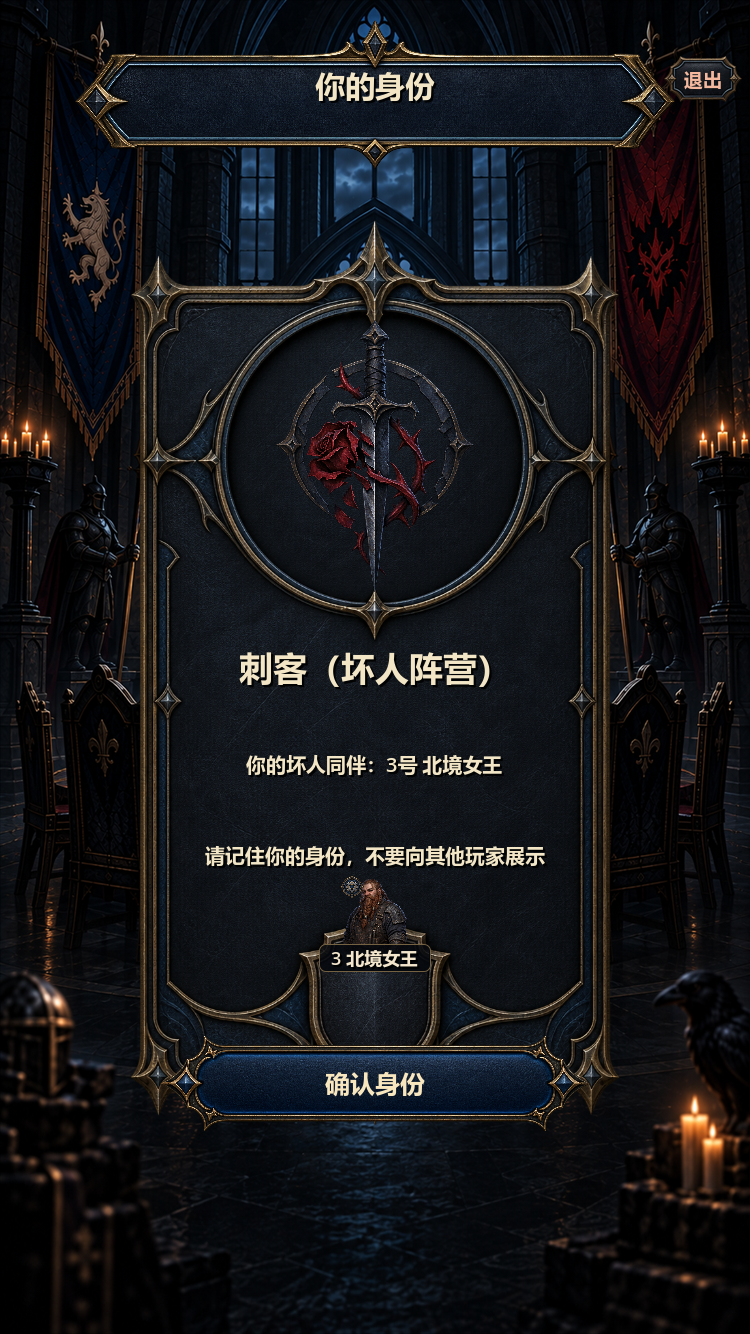
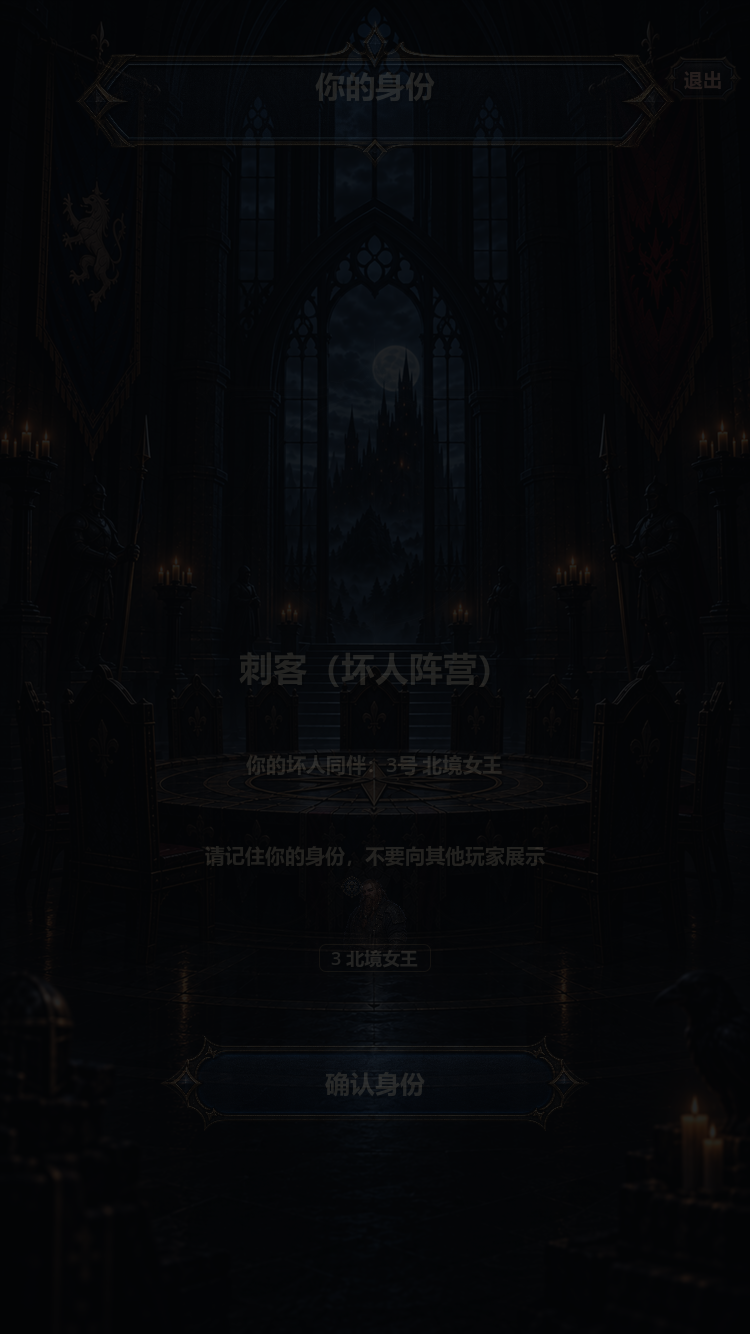
Feedback effects: page fade-in, press bounce, result pop and shake, identity card pop, countdown pulse, vibration switch, and a smoke test for them

diff --git a/文档/开发进度.md b/文档/开发进度.md
@@ -35,9 +35,10 @@
    - 第一轮（4423c34）：顶部返回 / 退出、底部导航底板、提示底条、标签素材、联机大厅分组、投票大点击区、组队主次按钮、任务页徽章变淡、结算身份徽记、去掉 AI_ 前缀、好友行图标按钮。
    - 第二轮：登录页勾选框放大（点“我已阅读并同意”也能勾选），协议链接改金色；10 人局改为上 3、右 2、下 3、左 2 的环形排布，名牌字号 18；发言页“正在发言”放进发言面板头部（带头像），空态提示轮到几号；投票结果改为赞成 / 反对两列小头像；刺杀页加红框 / 金框图例，金框只表示刺客选的目标（不再显示上一轮队伍）；房间页规则收成一行加“规则详情”弹窗；设置页声音开关统一为“总音量 / 音乐 / 音效 开/关”，高亮表示开启。
    - 第三轮：主页本地练习的人数与按钮收进同一面板；任务进度条“需2败”改为红色挂牌；身份页卡片下半部显示夜晚看到的人；组队页“已选 x / y”用大号金字；任务页等待时显示沙漏徽章，下半屏排出本轮队员头像；结算页胜方整行高亮；好友邀请横幅改为金框底板；登录页“适龄提示”提高对比度。
-   - 未确认：好友行内按钮和邀请横幅只在联机状态显示，还没在联机下截图。
+   - 联机复核（2026-10-09）：起 8899 测试服务端跑 `smoke_network`、`smoke_lifecycle`、`smoke_friends`、10 人联机 `smoke_selfplay` 全部通过；用 `smoke_friends -- shots=…` 截好友页，修了邀请横幅文字溢出，空列表改为带框的空态并给出下一步按钮。
+   - 动效（任务 004，Claude 直接实现）：换页淡入、按钮按压回弹、结果徽章弹出、失败/否决/输掉时抖动和震动、身份卡弹出、倒计时最后 10 秒图标脉冲、操作被拒轻微抖动；设置页加“震动”开关；新测试 `tools/smoke_effects.gd`。详见 `文档/agent-bridge/reports/004-client-feedback-effects.md`。
 2. **素材复核**：已在实际显示尺寸下看过。段位 6 在 32px 下可辨认，反对徽章在 210px 下清楚。段位 1、2 在 32px 下颜色接近，已由 Codex 重画为 `tier-1-bronze-v2`、`tier-2-silver-v2`（任务 010，`T.tier_icon` 优先用 v2）；同一任务还出了 `mission-waiting-emblem`（任务页等待）和 `rules-scroll-icon`（房间页“规则详情”）。Codex 默认模型 gpt-6.1-sol 对 ChatGPT 账号不可用，需加 `--model gpt-6-astra`。
 3. **PostgreSQL 实测**：`test/postgres.test.js` 已覆盖好友、私信、好友榜、最近同局的 SQL，需要在有数据库的环境跑一次。
-4. **旧任务单**：`文档/agent-bridge/tasks/003`（LLM 玩家竞技场）、`004`（客户端反馈效果）、`008`（决策提供者）是按旧分支架构（`rules.ts`、`ai.ts`）写的，未执行或未完成，需要按 main 的 `avalon.room.ts` / `avalon.ai.ts` 重写后再派给 Codex。旧分支上那份未提交的 LLM 竞技场代码（`src/llm/`、`scripts/llm-arena.js`）没有移植。
+4. **旧任务单**：`文档/agent-bridge/tasks/003`（LLM 玩家竞技场）、`008`（决策提供者）是按旧分支架构（`rules.ts`、`ai.ts`）写的，未执行或未完成，需要按 main 的 `avalon.room.ts` / `avalon.ai.ts` 重写后再派给 Codex。旧分支上那份未提交的 LLM 竞技场代码（`src/llm/`、`scripts/llm-arena.js`）没有移植。
 5. **本机环境**：Windows 防火墙服务（MpsSvc）处于停止状态，Codex 的 elevated 沙箱无法执行命令；任务 009 是在用户同意下以 `--sandbox danger-full-access` 运行的。恢复沙箱需管理员执行 `Start-Service MpsSvc`。
 6. **本机目录**：`阿瓦隆/` 仍在旧分支，切到 main 前需先 `git stash -u` 暂存他人未提交的 Cocos 改动（main 已把 Cocos 移到 `归档/`）。本次工作在工作树 `阿瓦隆-main`、`阿瓦隆-social` 中完成。

diff --git a/文档/agent-bridge/reports/004-client-feedback-effects.md b/文档/agent-bridge/reports/004-client-feedback-effects.md
@@ -1,0 +1,35 @@
+# 报告：004 客户端反馈与动效
+
+- 状态：完成。由 Claude 直接在 main 上实现，没有派给 Codex。任务单是按旧分支写的，下面写明和任务单不同的地方。
+- 修改的文件：
+  - `客户端/Godot_Client/scripts/views/effects.gd`（新）：`AvalonEffects.shake / vibrate / pop_in / fade_in / press_feedback / pulse`。
+  - `客户端/Godot_Client/scripts/views/page_view.gd`：接入各触发点；设置页加“震动 开/关”。
+  - `客户端/Godot_Client/scripts/controllers/avalon_controller.gd`：只加了 `result_serial`、`end_serial` 两个计数。
+  - `客户端/Godot_Client/tools/smoke_effects.gd`（新）、`tools/capture_review.gd`（截图前多等 0.4 秒，避开入场动效）。
+  - `AGENTS.md`、`客户端/Godot_Client/README.md`：验证命令加上 `smoke_effects.gd`。
+
+## 触发点
+
+| 事件 | 效果 |
+| --- | --- |
+| 换页（每页是独立场景，新实例即换页） | 整页 `fade_in` 0.2 秒 |
+| `button()` 建的按钮 | 按下缩到 0.94、松开回弹，`vibrate(15)` |
+| 投票结果 / 任务结果页 | 徽章 `pop_in`；否决或失败时整页 `shake` + `vibrate(120)`，通过或成功 `vibrate(40)` |
+| 结算页 | 胜负标题 `pop_in`；自己输了 `shake` + `vibrate(120)` |
+| 身份页 | 身份卡和徽记 `pop_in`（仅该页第一次绘制） |
+| 倒计时 ≤ 10 秒 | 进度条右侧已有的 `timer-icon` 循环 `pulse` |
+| 操作被拒（控制器的 `ui_error` 事件） | `shake(6)` + `vibrate(30)` |
+
+## 和任务单的差异
+
+- “只播一次”没有用 `effect_requested` 信号：换页会重建场景，信号可能在新页面连上之前就发出。改为控制器给每个结果 / 结局计数（`result_serial`、`end_serial`），页面用静态变量记住已播放的编号，重建和换页都不会重播。
+- 震动开关在设置页（第 18 页），旧分支的 `show_settings()` 对话框在 main 上不存在。`profile.data.vibration` 缺省视为开，无需改 `profile_store.gd`。
+- 计时图标沿用进度条上已有的 30px `timer-icon`，没有另加。
+- `smoke_social_ui.gd` 在 main 上不存在，未运行。
+
+## 验证
+
+- `--headless --import`：通过。
+- `smoke_effects.gd` → `EFFECTS_OK result=1 vibrations=2`：单次与连续 3 次抖动都精确回到原位；抖动中重建 3 次后页面根节点在 (0,0)；震动关时不调用；同一结果的效果只播一次。
+- `smoke_client.gd` → `ALL_17_PAGES_RENDERED`（无 SCRIPT ERROR）；`smoke_flow.gd` → `CLIENT_PHASE_FLOW_OK`；`smoke_selfplay url=local` 5 人、10 人 → `GODOT_SELFPLAY_OK`。
+- 注意：`effects.gd` 不能直接引用 `AvalonApp`，因为 `--script` 运行的测试脚本会在自动加载之前编译它，所以改为运行时从场景树查找。

diff --git a/客户端/Godot_Client/README.md b/客户端/Godot_Client/README.md
@@ -47,6 +47,7 @@ Godot 4.7.2 项目。运行 `Run-Game.cmd` 从登录页开始；`Open-Editor.cmd
 & 'E:\Game_Work\Godot\Godot_v4.7.2-stable_win64_console.exe' --headless --path . --import
 & 'E:\Game_Work\Godot\Godot_v4.7.2-stable_win64_console.exe' --path . --script res://tools/smoke_client.gd --audio-driver Dummy
 & 'E:\Game_Work\Godot\Godot_v4.7.2-stable_win64_console.exe' --headless --path . --script res://tools/smoke_flow.gd
+& 'E:\Game_Work\Godot\Godot_v4.7.2-stable_win64_console.exe' --headless --path . --script res://tools/smoke_effects.gd
 ```
 
 Linux 下用 `Godot_v4.7.2-stable_linux.x86_64` 执行相同参数；没有显示器时第二条需要放在 `xvfb-run -a` 下运行。

diff --git a/AGENTS.md b/AGENTS.md
@@ -28,6 +28,7 @@ Godot（在 `客户端/Godot_Client`，引擎 `E:\Game_Work\Godot\Godot_v4.7.2-s
 <godot> --headless --path . --import
 <godot> --path . --script res://tools/smoke_client.gd --audio-driver Dummy
 <godot> --headless --path . --script res://tools/smoke_flow.gd
+<godot> --headless --path . --script res://tools/smoke_effects.gd
 <godot> --headless --path . --script res://tools/smoke_selfplay.gd -- players=7 games=2 seed=1 url=local
 ```
 
